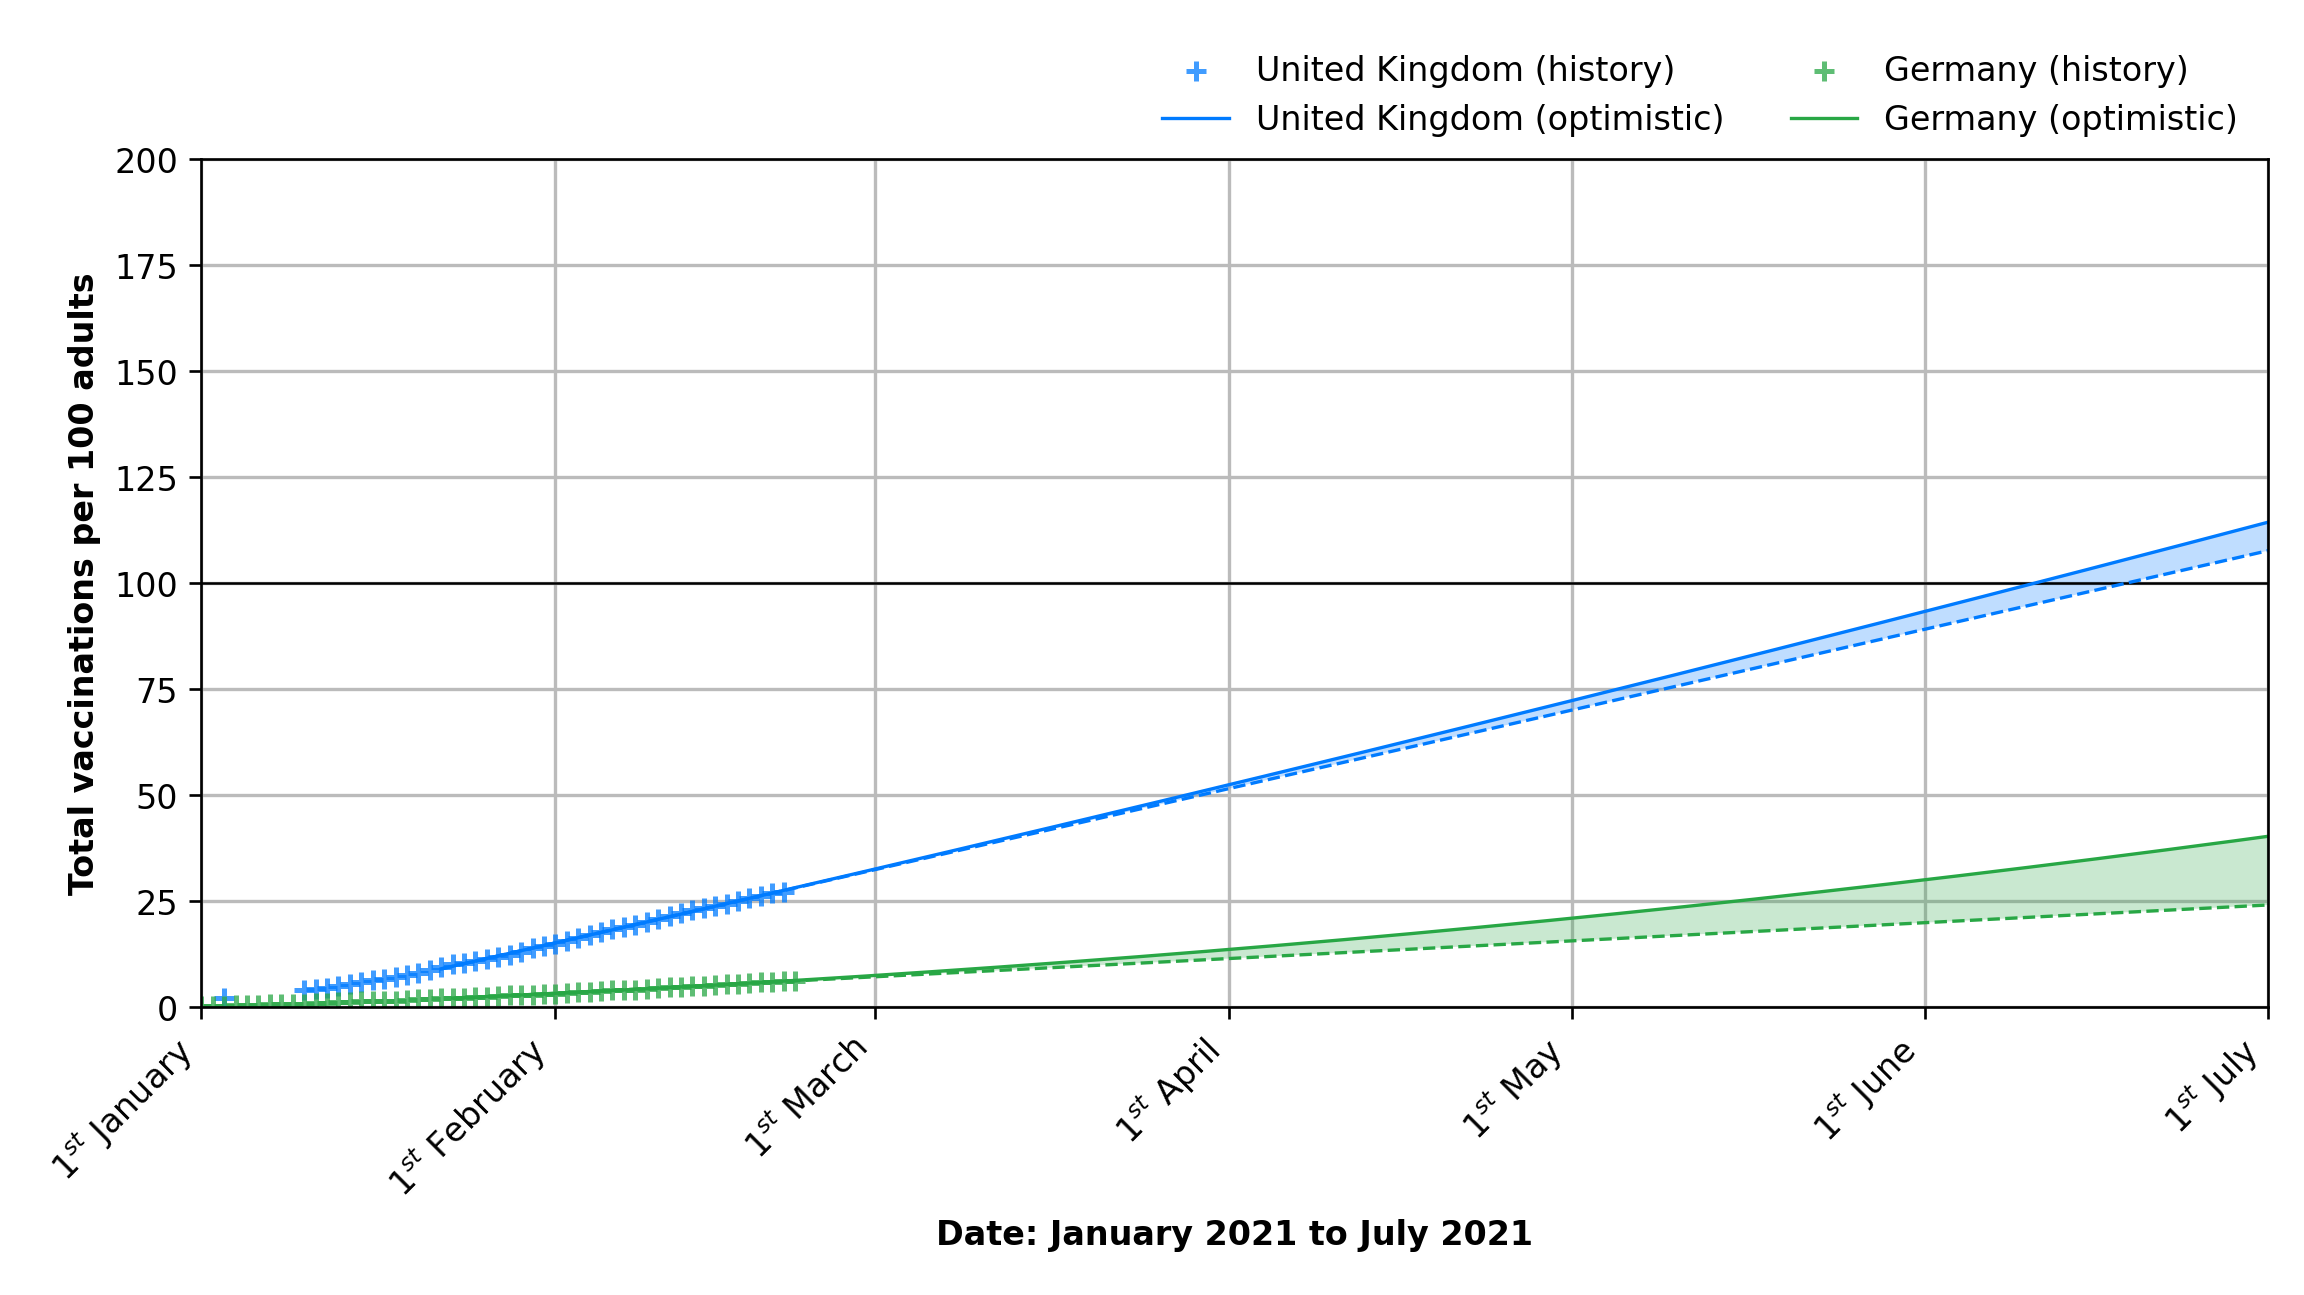
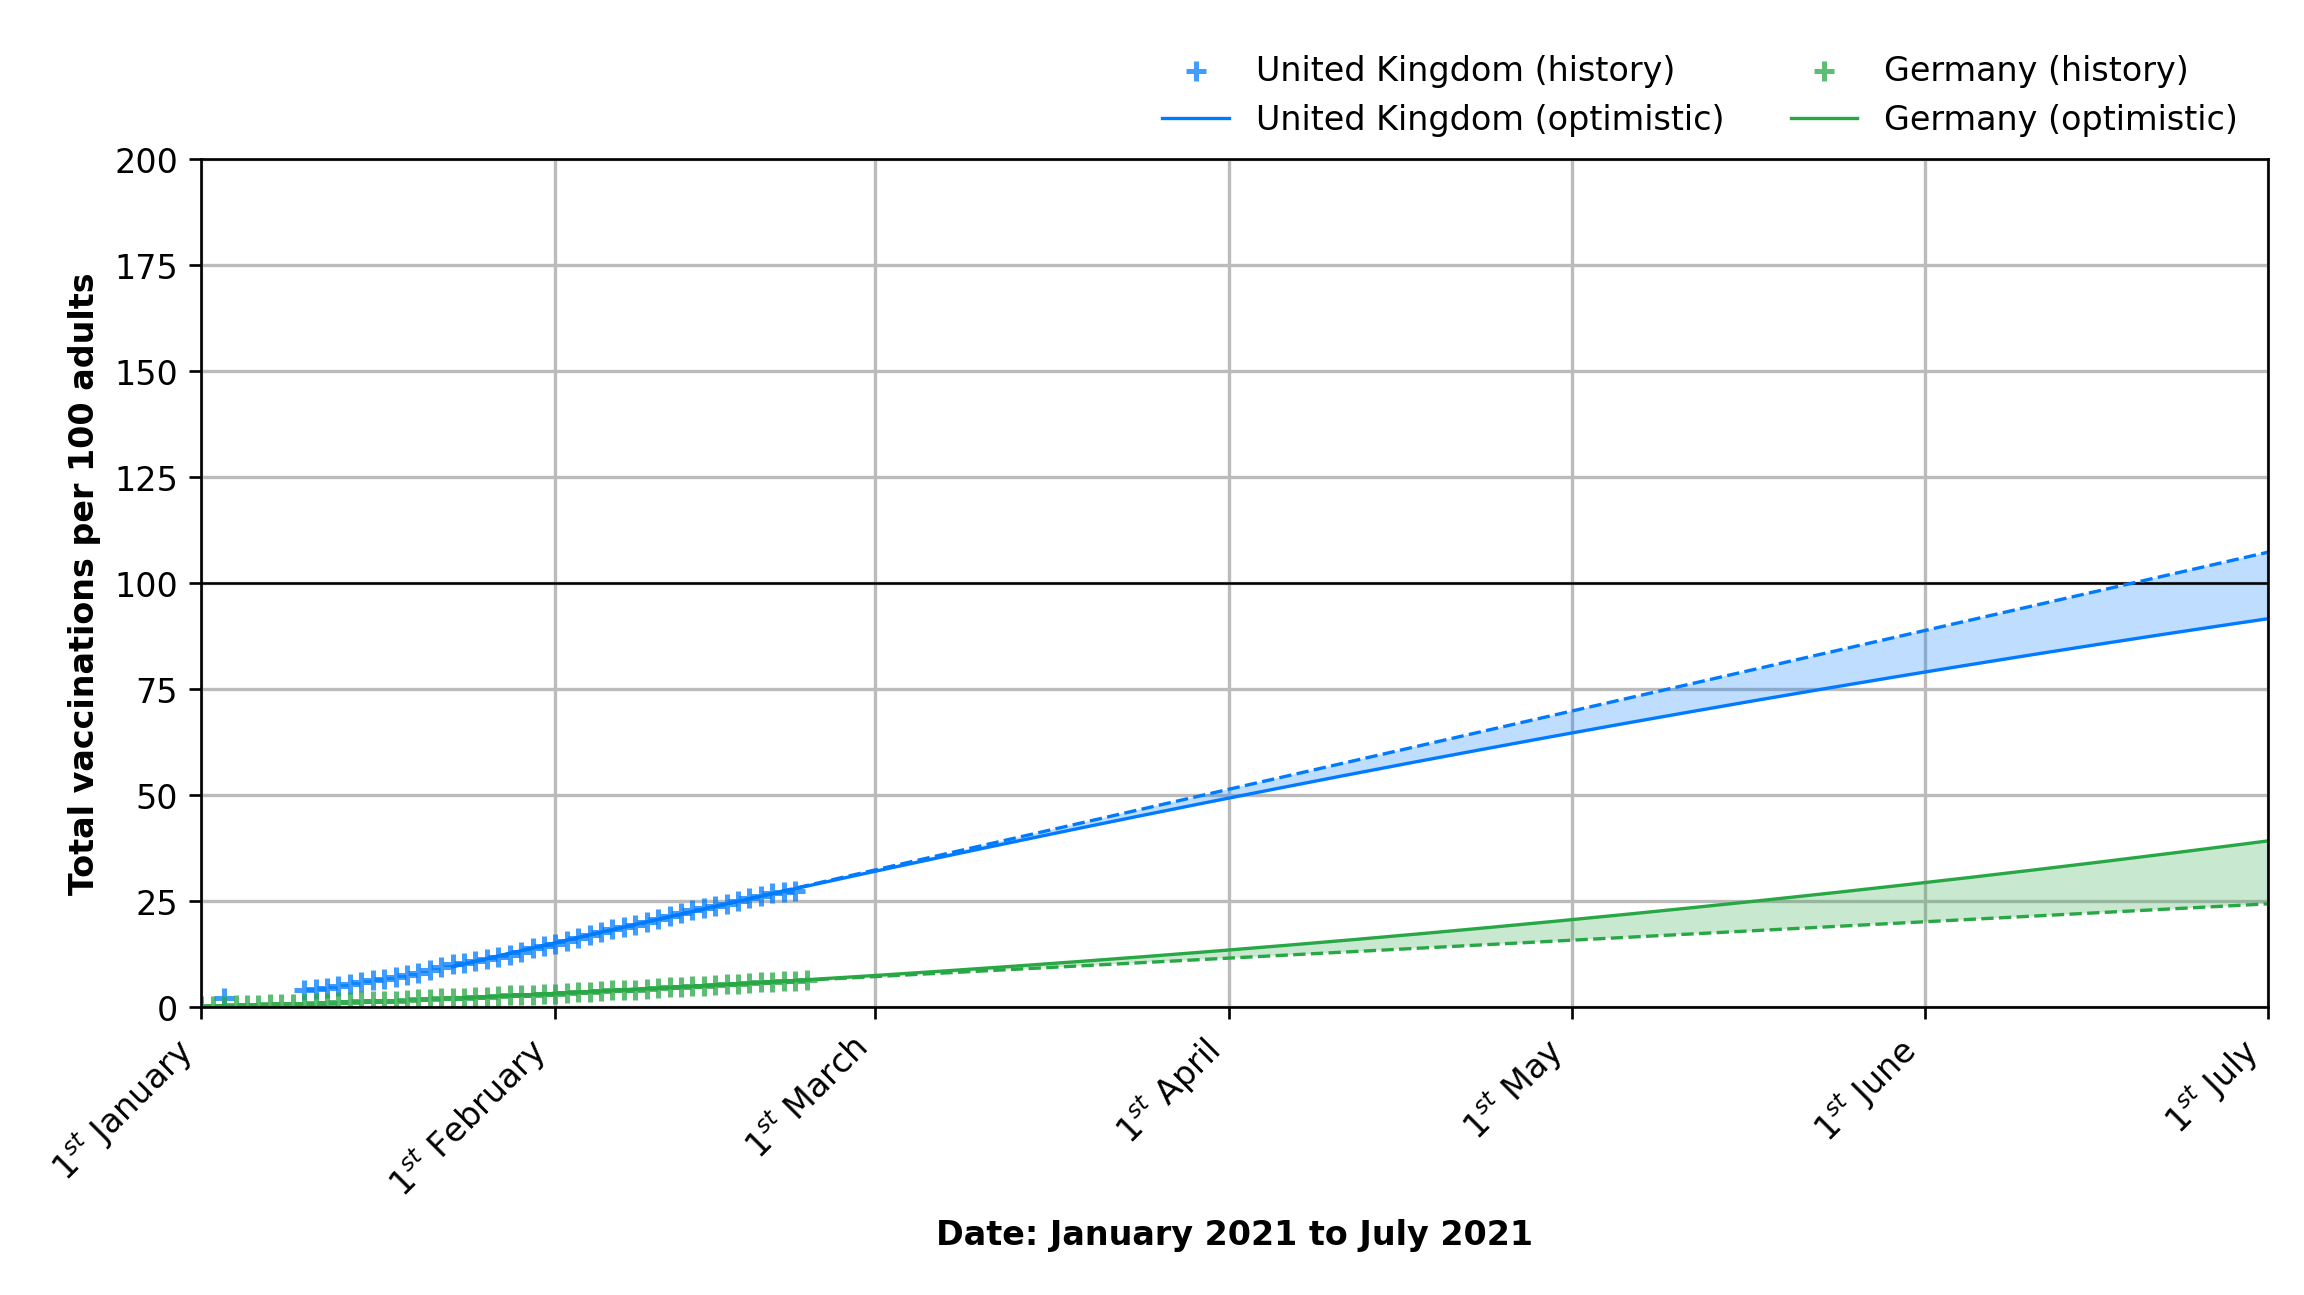
Deploying to gh-pages from @ lambdapioneer/vactrend@46a839a7355832af83c090f47a6886c648a86699 🚀

diff --git a/index.html b/index.html
@@ -38,13 +38,13 @@
                 <div class="card">
                     <div class="card-header">🇬🇧 United Kingdom</div>
                     <div class="card-body">
-                        <h3 class="font-weight-bold" style="color: #007bff">27.03 <small>(+0.22/d)</small></h3>
+                        <h3 class="font-weight-bold" style="color: #007bff">27.34 <small>(+0.31/d)</small></h3>
                         <p class="mt-n2">Vaccinations per 100 adults</p>
-                        <h3 class=" font-weight-bold">11 June 2021</h3>
+                        <h3 class=" font-weight-bold">24 July 2021</h3>
                         <p class="mt-n2">Earliest day: 100 vacc. per 100 adults</p>
-                        <h3 class=" font-weight-bold">24 October 2021</h3>
+                        <h3 class=" font-weight-bold">31 December 2022</h3>
                         <p class="mt-n2">Earliest day: 200 vacc. per 100 adults</p>
-                        <p class="card-text"><small class="text-muted">Last data from 21 February 2021.</small></p>
+                        <p class="card-text"><small class="text-muted">Last data from 22 February 2021.</small></p>
                     </div>
                 </div>
             </div>
@@ -53,13 +53,13 @@
                 <div class="card">
                     <div class="card-header">🇩🇪 Germany</div>
                     <div class="card-body">
-                        <h3 class="font-weight-bold" style="color: #28a745">6.23 <small>(+0.17/d)</small></h3>
+                        <h3 class="font-weight-bold" style="color: #28a745">6.41 <small>(+0.17/d)</small></h3>
                         <p class="mt-n2">Vaccinations per 100 adults</p>
-                        <h3 class=" font-weight-bold">07 November 2021</h3>
+                        <h3 class=" font-weight-bold">14 November 2021</h3>
                         <p class="mt-n2">Earliest day: 100 vacc. per 100 adults</p>
-                        <h3 class=" font-weight-bold">03 April 2022</h3>
+                        <h3 class=" font-weight-bold">15 April 2022</h3>
                         <p class="mt-n2">Earliest day: 200 vacc. per 100 adults</p>
-                        <p class="card-text"><small class="text-muted">Last data from 22 February 2021.</small></p>
+                        <p class="card-text"><small class="text-muted">Last data from 23 February 2021.</small></p>
                     </div>
                 </div>
             </div>
